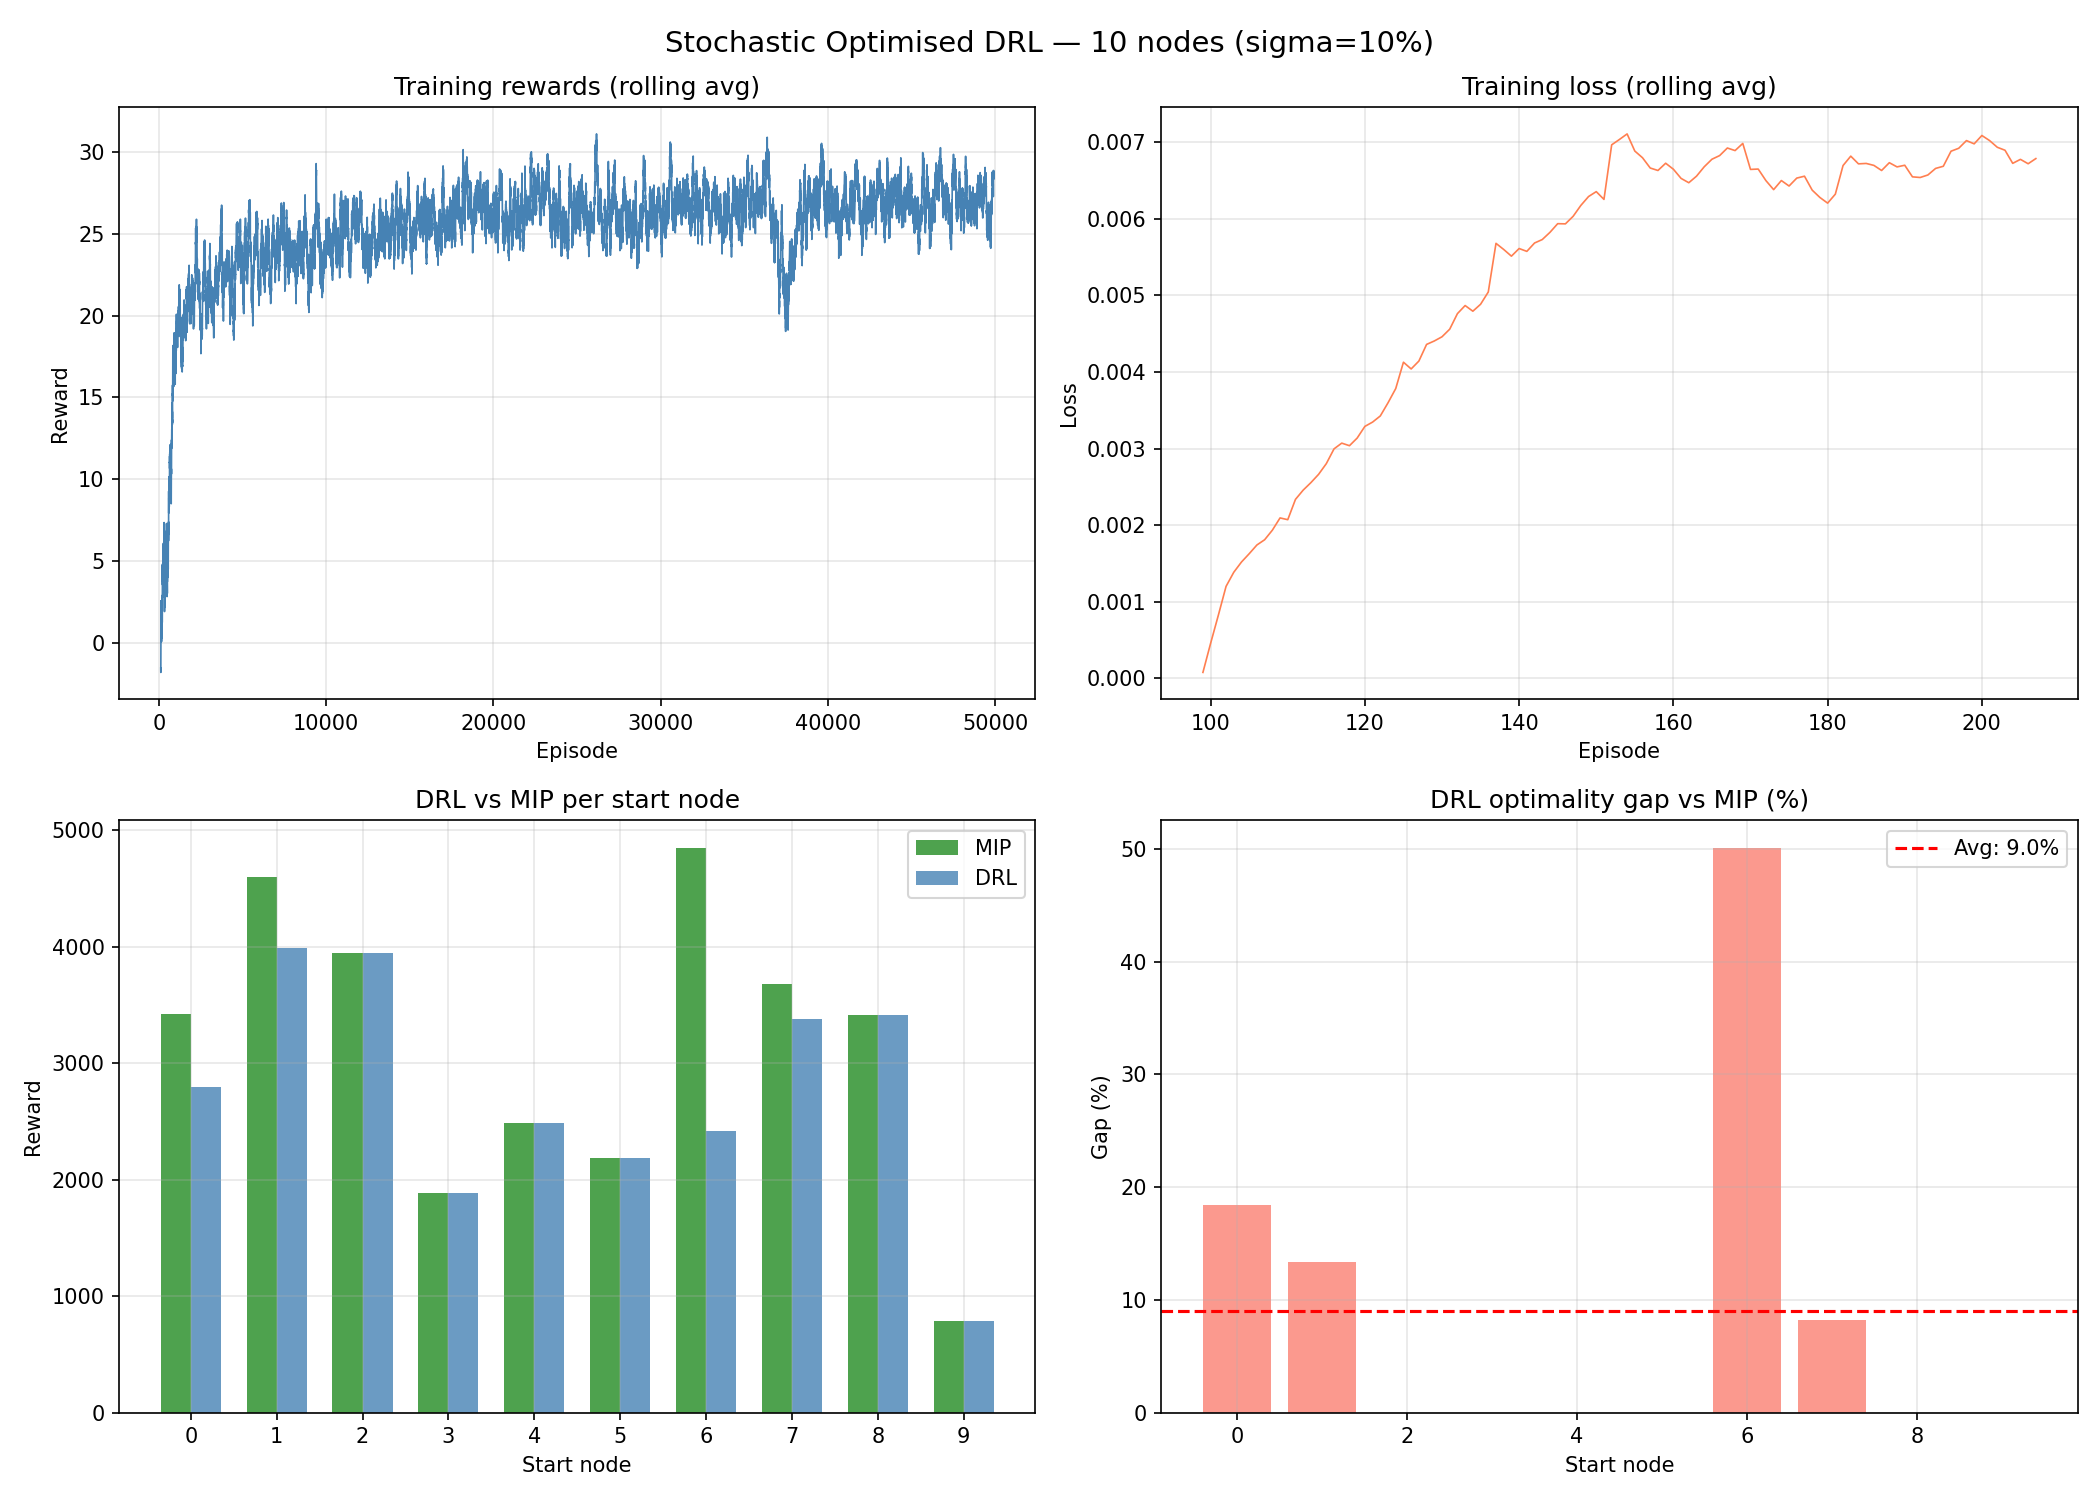
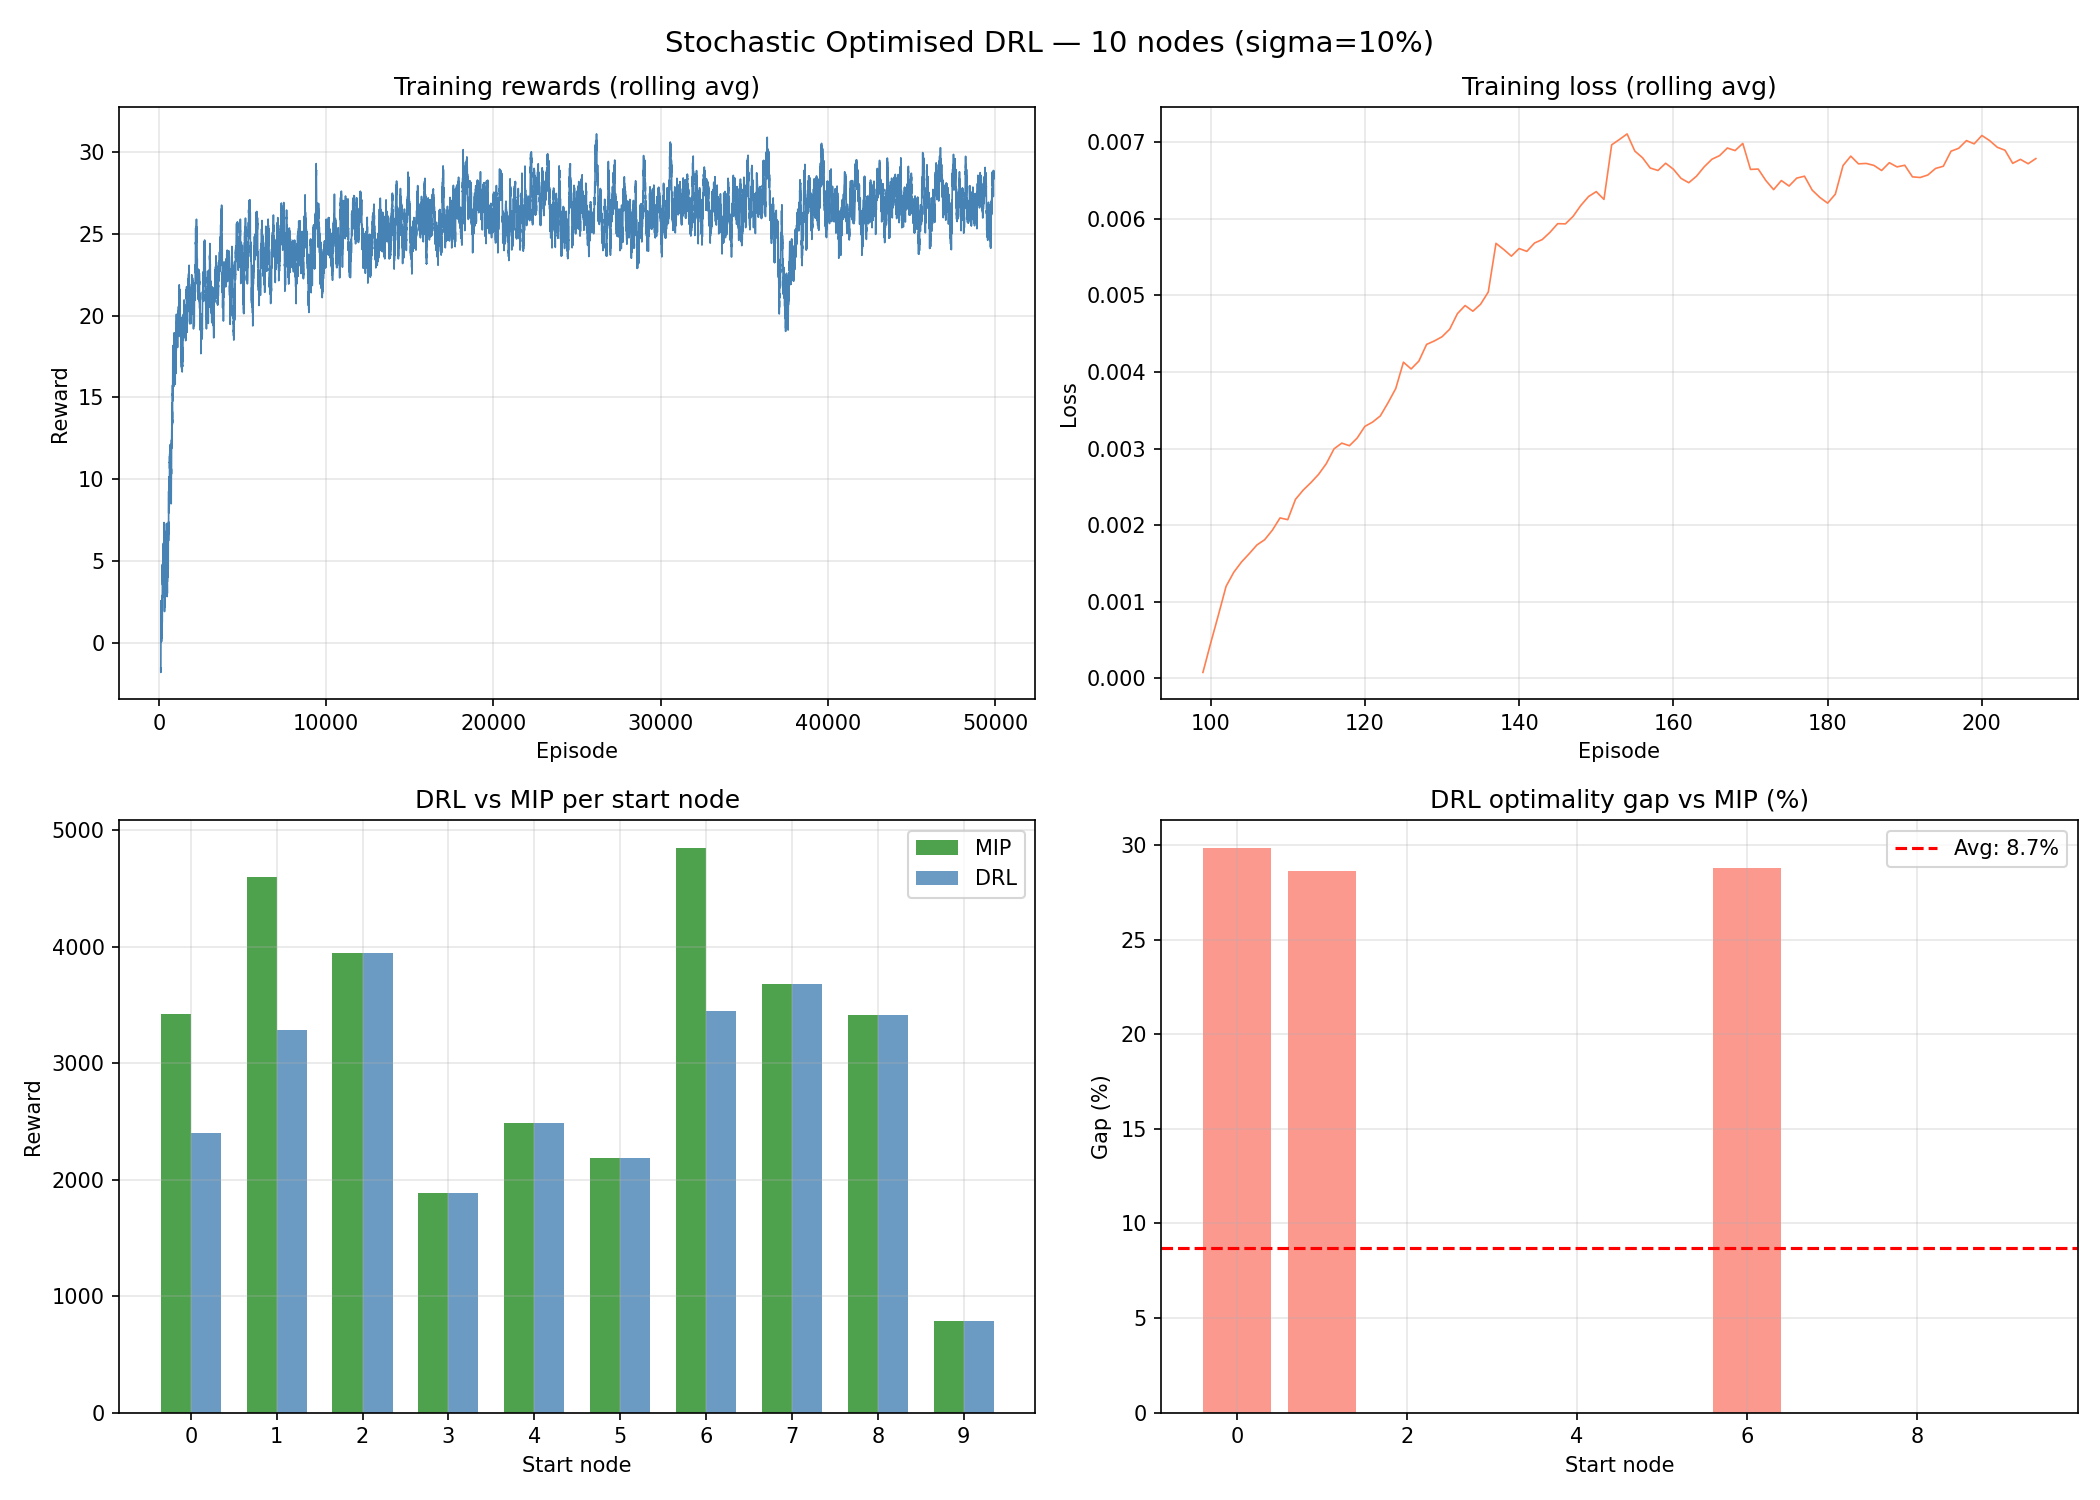
Versión estable con 8.7% GAP

diff --git a/evaluation.py b/evaluation.py
@@ -41,11 +41,20 @@ def generate_optimal_route(agent, start_node, time_matrix, reward_matrix_penaliz
     El techo de pasos es num_nodes (defensivo; terminación natural vía depot).
     """
     if hasattr(agent, 'generate_route') and distance_arr is not None:
-        return agent.generate_route(
+        route, reward, duration = agent.generate_route(
             start_node, reward_matrix_penalized, time_matrix,
             distance_arr, max_duration,
-            beam_width=3,
+            beam_width=1,
         )
+        if route is None or duration < max_duration * 0.85:
+            route_b, reward_b, duration_b = agent.generate_route(
+                start_node, reward_matrix_penalized, time_matrix,
+                distance_arr, max_duration,
+                beam_width=3,
+            )
+            if route_b is not None and reward_b > reward:
+                return route_b, reward_b, duration_b
+        return route, reward, duration
 
     agent.epsilon = 0
     agent.policy_net.eval()
